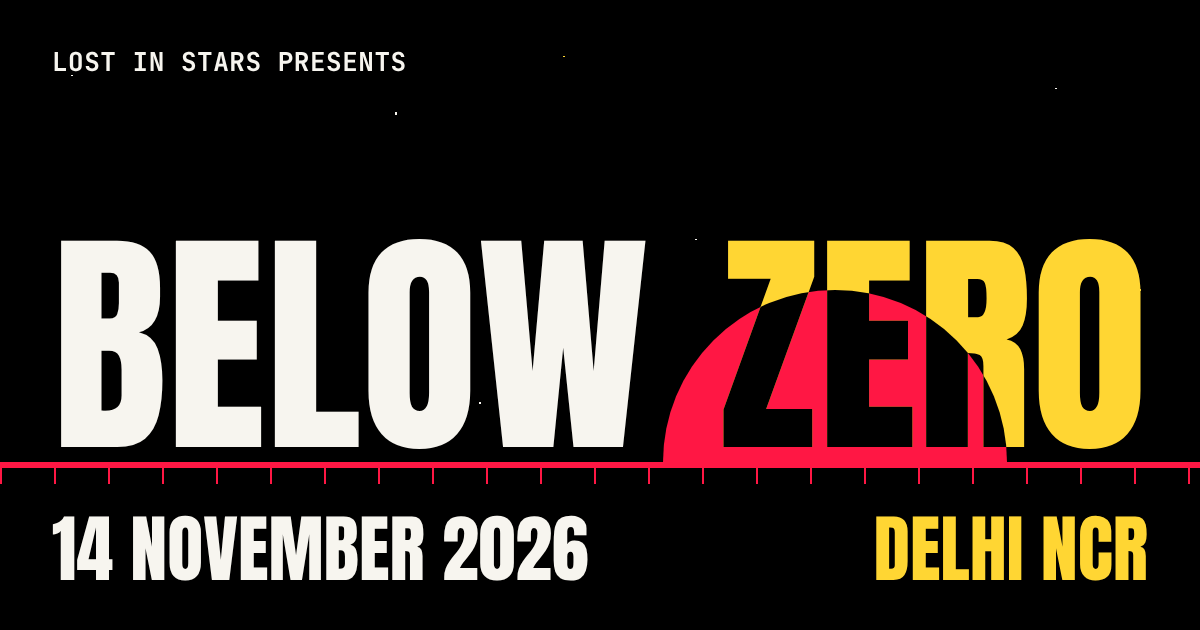
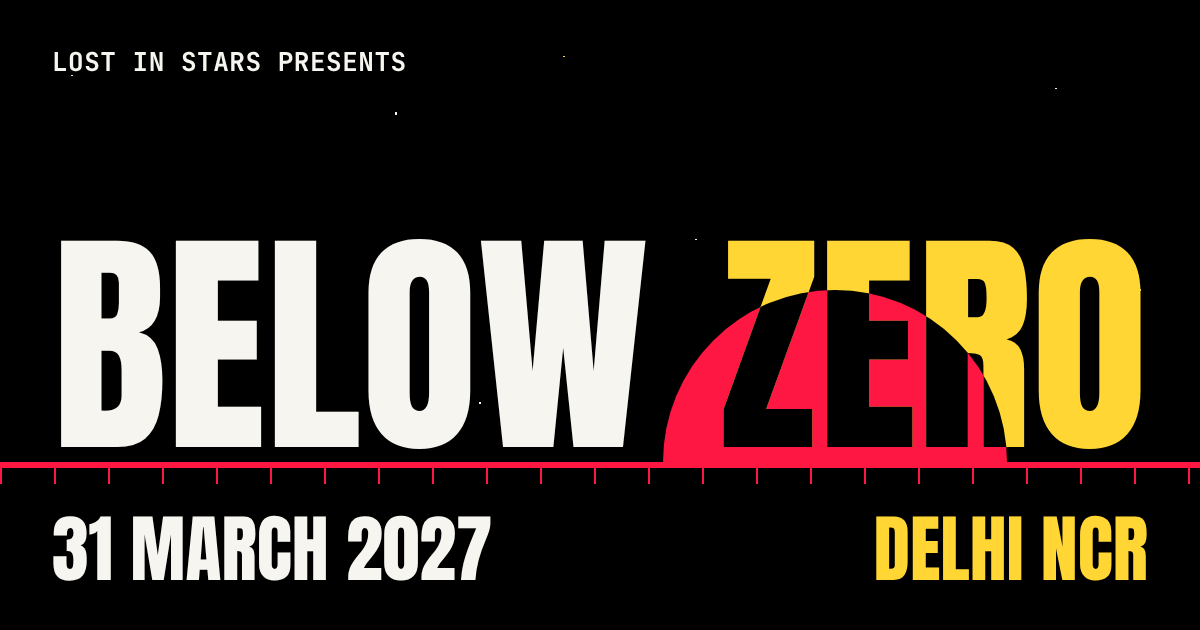
Event date to 31 March 2027; add Shiva Singh, Partnership Co-Lead
Claude-Session: https://claude.ai/code/session_0153HwtmW7VgVRFVWnbuyjsH

Changed region(s): [[0.0308, 0.8143, 0.4933, 0.9349]]

diff --git a/index.html b/index.html
@@ -3,7 +3,7 @@
   <head>
     <meta charset="UTF-8" />
     <meta name="viewport" content="width=device-width, initial-scale=1.0" />
-    <title>BELOW ZERO 2026 | Student Hackathon by Lost in Stars</title>
+    <title>BELOW ZERO 2027 | Student Hackathon by Lost in Stars</title>
     <meta name="description" content="__DESCRIPTION__" />
 
     <link rel="canonical" href="__SITE_URL__" />
@@ -15,13 +15,13 @@
     <meta property="og:image:height" content="630" />
     <meta property="og:image:alt" content="BELOW ZERO hackathon, __DATE_LONG__, __LOCATION__" />
     <meta property="og:type" content="website" />
-    <meta property="og:title" content="BELOW ZERO 2026 | Student Hackathon by Lost in Stars" />
+    <meta property="og:title" content="BELOW ZERO 2027 | Student Hackathon by Lost in Stars" />
     <meta property="og:description" content="__DESCRIPTION__" />
     <meta property="og:site_name" content="BELOW ZERO Hackathon" />
 
     <!-- Twitter Card -->
     <meta name="twitter:card" content="summary_large_image" />
-    <meta name="twitter:title" content="BELOW ZERO 2026 | Student Hackathon by Lost in Stars" />
+    <meta name="twitter:title" content="BELOW ZERO 2027 | Student Hackathon by Lost in Stars" />
     <meta name="twitter:description" content="__DESCRIPTION__" />
     <meta name="twitter:image" content="__SITE_URL__below-zero-share.png" />
 
@@ -36,7 +36,7 @@
       {
         "@context": "https://schema.org",
         "@type": "Event",
-        "name": "BELOW ZERO 2026 Student Hackathon",
+        "name": "BELOW ZERO 2027 Student Hackathon",
         "description": "__DESCRIPTION__",
         "organizer": {
           "@type": "Organization",

diff --git a/src/data/event.ts b/src/data/event.ts
@@ -10,18 +10,18 @@ export const EVENT = {
   /** Public address of the site, used for sharing and search tags. Keep the trailing slash. */
   siteUrl: 'https://belowzero2027.xyz/',
   /** Short date for tight spaces. */
-  dateLabel: '14 November',
+  dateLabel: '31 March',
   /** Full date for sentences. */
-  dateLong: '14 November 2026',
+  dateLong: '31 March 2027',
   startTimeLabel: '9:00 AM IST',
   location: 'Delhi NCR',
   /**
-   * Set to an ISO string (e.g. '2026-11-14T09:00:00+05:30') once the date is
+   * Set to an ISO string (e.g. '2027-03-31T09:00:00+05:30') once the date is
    * final. The countdown and "Save to calendar" return to the hero when set.
    */
-  confirmedStart: '2026-11-14T09:00:00+05:30' as string | null,
+  confirmedStart: '2027-03-31T09:00:00+05:30' as string | null,
   /** Event end, used for the calendar link. */
-  confirmedEnd: '2026-11-15T09:00:00+05:30' as string | null,
+  confirmedEnd: '2027-04-01T09:00:00+05:30' as string | null,
   email: 'official.lostinstars@gmail.com',
   /**
    * REGISTRATION LINK. Paste the live form URL here (Google Forms, Fillout, etc).

diff --git a/src/data/people.ts b/src/data/people.ts
@@ -59,4 +59,10 @@ export const ORGANIZERS: Person[] = [
     description: 'Designing the BELOW ZERO website.',
     initials: 'AY',
   },
+  {
+    name: 'Shiva Singh',
+    role: 'Partnership Co-Lead',
+    description: 'Co-leading partnerships for BELOW ZERO.',
+    initials: 'SS',
+  },
 ];
